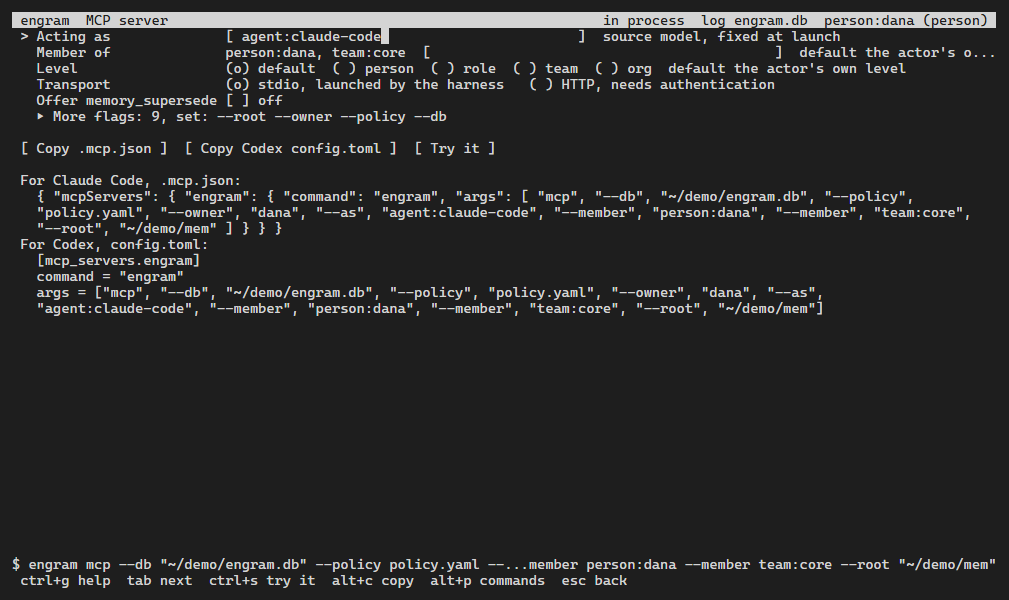
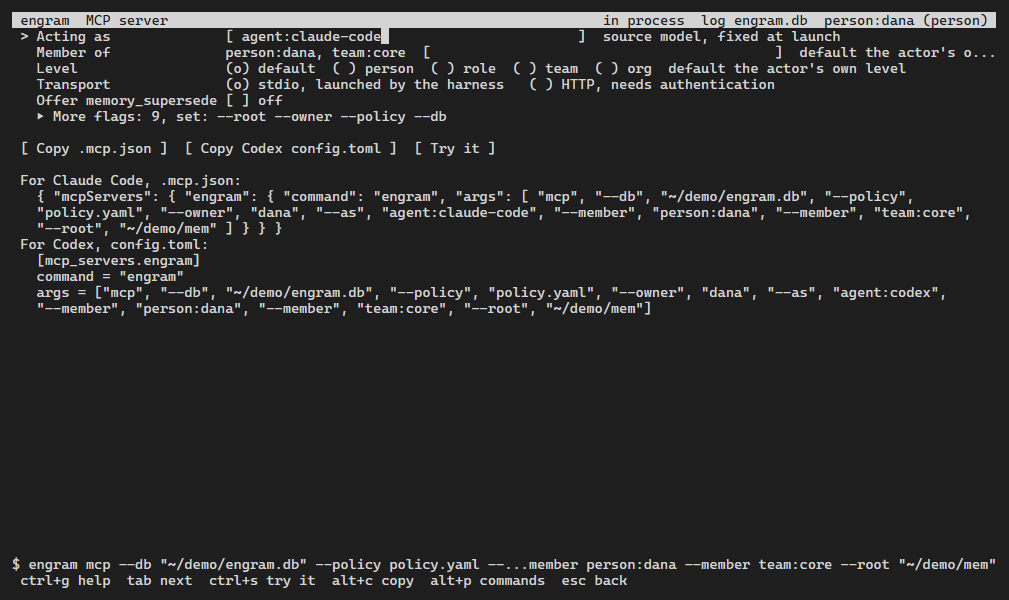
E8.15 README review: Codex's snippet acts as agent:codex; explain's singular reach line; mcp and explain screens regenerated

Changed region(s): [[0.0307, 0.51, 0.8295, 0.54], [0.8295, 0.48, 0.9217, 0.51]]

diff --git a/packages/cli/src/tui/snippets.ts b/packages/cli/src/tui/snippets.ts
@@ -172,9 +172,22 @@ export const mcpJson = (launch: Launch, argv: readonly string[]) => ({
   mcpServers: { engram: { command: launch.command, args: [...launch.prefix, ...argv] } },
 });
 
-/** Codex's `[mcp_servers.engram]` table, in the fixture's shape (TOML strings as JSON writes them). */
+/** The agent the MCP screen acts as by default, which is Claude Code's; Codex's snippet names Codex's instead. */
+export const CLAUDE_CODE_AGENT = "agent:claude-code";
+export const CODEX_AGENT = "agent:codex";
+
+/**
+ * `argv` as Codex runs it: `--as agent:claude-code`, the MCP screen's default,
+ * becomes `--as agent:codex`, so a Codex session is never recorded as Claude
+ * Code (README review, 2026-11-26). Any other actor is kept as given.
+ */
+export function codexArgv(argv: readonly string[]): string[] {
+  return argv.map((a, i) => (a === CLAUDE_CODE_AGENT && argv[i - 1] === "--as" ? CODEX_AGENT : a));
+}
+
+/** Codex's `[mcp_servers.engram]` table, in the fixture's shape (TOML strings as JSON writes them), acting as Codex's agent when the screen's default is Claude Code's. */
 export function codexToml(launch: Launch, argv: readonly string[]): string {
-  const args = [...launch.prefix, ...argv].map((a) => JSON.stringify(a)).join(", ");
+  const args = [...launch.prefix, ...codexArgv(argv)].map((a) => JSON.stringify(a)).join(", ");
   return `[mcp_servers.engram]\ncommand = ${JSON.stringify(launch.command)}\nargs = [${args}]\n`;
 }
 

diff --git a/docs/design/screens/mcp.html b/docs/design/screens/mcp.html
@@ -24,8 +24,8 @@ font-variant-ligatures:none}
  For Codex, config.toml:                                                                                                
    [mcp_servers.engram]                                                                                                 
    command = "engram"                                                                                                   
-   args = ["mcp", "--db", "~/demo/engram.db", "--policy", "policy.yaml", "--owner", "dana", "--as",                     
-   "agent:claude-code", "--member", "person:dana", "--member", "team:core", "--root", "~/demo/mem"]                     
+   args = ["mcp", "--db", "~/demo/engram.db", "--policy", "policy.yaml", "--owner", "dana", "--as", "agent:codex",      
+   "--member", "person:dana", "--member", "team:core", "--root", "~/demo/mem"]                                          
                                                                                                                         
                                                                                                                         
                                                                                                                         

diff --git a/packages/cli/src/tui/screens/read.ts b/packages/cli/src/tui/screens/read.ts
@@ -373,6 +373,12 @@ export interface ReadKnown {
   contents?: ReadonlyMap<string, string>;
 }
 
+/** The explain view's line for the projected items out of the reader's reach, in the number it counts (README review, 2026-11-26). */
+export const reachLine = (n: number): string =>
+  n === 1
+    ? " 1 projected item outside the reader's reach was not a candidate."
+    : ` ${n} projected items outside the reader's reach were not candidates.`;
+
 export class ExplainScreen extends RichScreen {
   readonly kind = "explain" as const;
   private readonly known: ReadKnown;
@@ -509,9 +515,7 @@ export class ExplainScreen extends RichScreen {
       const c = v.counts;
       out.push(` Returned ${c.returned} of ${c.candidates} candidates; ${c.filtered} filtered.`);
       for (const cat of v.categories) out.push(`   ${cat.count} ${cat.label}`);
-      out.push(
-        ` ${c.out_of_reach} projected ${c.out_of_reach === 1 ? "item" : "items"} outside the reader's reach ${c.out_of_reach === 1 ? "was" : "were"} not candidates.`,
-      );
+      out.push(reachLine(c.out_of_reach));
     }
     out.push("", ` rank  ${fit("item", 38)}${fit("score", 9)}admitted by`);
     this.selected = Math.max(0, Math.min(this.selected, v.rows.length - 1));

diff --git a/packages/cli/test/tui/flows.test.ts b/packages/cli/test/tui/flows.test.ts
@@ -13,7 +13,7 @@ import { command } from "../../src/registry.ts";
 import type { EventsScreen, PolicyScreen } from "../../src/tui/screens/events.ts";
 import type { GrantsScreen } from "../../src/tui/screens/grants.ts";
 import type { ItemScreen } from "../../src/tui/screens/item.ts";
-import type { ReadScreen } from "../../src/tui/screens/read.ts";
+import { type ReadScreen, reachLine } from "../../src/tui/screens/read.ts";
 import { outputLines } from "../../src/tui/screens/rich.ts";
 import type { PromoteScreen, WriteScreen } from "../../src/tui/screens/write.ts";
 import { ASCII } from "../../src/tui/theme.ts";
@@ -124,6 +124,11 @@ describe("Read and explain (8.5, 8.6)", () => {
     expect(rows.at(-3)).toContain("This read also changes the log, as asked");
     expect(rows.at(-2)).not.toContain("as asked");
     await h.quit();
+  });
+
+  it("says one projected item out of reach in the singular", () => {
+    expect(reachLine(1)).toBe(" 1 projected item outside the reader's reach was not a candidate.");
+    expect(reachLine(0)).toBe(" 0 projected items outside the reader's reach were not candidates.");
   });
 
   it("e explains the read; enter on a row opens the item page", async () => {

diff --git a/docs/design/screens/explain.html b/docs/design/screens/explain.html
@@ -17,7 +17,7 @@ font-variant-ligatures:none}
    0 not active                                                                                                         
    0 past their ttl                                                                                                     
    0 by a grant's class or expiry                                                                                       
- 1 projected item outside the reader's reach was not candidates.                                                        
+ 1 projected item outside the reader's reach was not a candidate.                                                       
                                                                                                                         
  rank  item                                  score    admitted by                                                       
 <span style="color:#1e1e1e;background:#d4d4d4"> &gt; 1   01940000-0000-7000-8000-000000000009  1.7219   fixture.inspector/read/person                                     </span>

diff --git a/packages/cli/test/tui/snippets.test.ts b/packages/cli/test/tui/snippets.test.ts
@@ -165,6 +165,20 @@ describe("the snippets' shape (8.14, 8.15)", () => {
     expect(codexToml(launch, args)).toBe(table);
   });
 
+  it("Codex's table acts as Codex's agent where the screen's default is Claude Code's, and keeps any other actor", () => {
+    const launch = { command: "engram", prefix: [], note: undefined };
+    const args = ["mcp", "--as", "agent:claude-code", "--member", "person:dana"];
+    expect(codexToml(launch, args)).toBe(
+      '[mcp_servers.engram]
+command = "engram"
+args = ["mcp", "--as", "agent:codex", "--member", "person:dana"]
+',
+    );
+    // Claude Code's own snippet keeps it.
+    expect(mcpJson(launch, args).mcpServers.engram.args).toEqual(args);
+    expect(codexToml(launch, ["mcp", "--as", "agent:other"])).toContain('"--as", "agent:other"');
+  });
+
   it("the absolute form puts main.ts first in args, escaped as JSON requires", () => {
     const launch = { command: "C:\\Program Files\\nodejs\\node.exe", prefix: [MAIN], note: "x" };
     const entry = hookSettings(launch, fixtureArgs).hooks.PreToolUse[0]?.hooks[0];

diff --git a/docs/design/tui.md b/docs/design/tui.md
@@ -1232,7 +1232,7 @@ The start line is the shape `serve.ts` prints since card E8.12 merged: it ends w
 
 ### 8.14 MCP server
 
-The MCP server is normally launched by the harness, not by a person, so this screen is setup: it builds the `engram mcp` command for the actor and memberships chosen, shows the configuration for Claude Code's `.mcp.json` and Codex's `config.toml` in exactly the shape of the repository's tested fixtures (`fixtures/harness/claude-code/.mcp.json`, `fixtures/harness/codex/config.toml`: `command` and an `args` list), and copies each with `c`. "Offer memory_supersede" is `--supersede` (card L6). The HTTP transport takes the same three authentication answers as Serve (card E8.12).
+The MCP server is normally launched by the harness, not by a person, so this screen is setup: it builds the `engram mcp` command for the actor and memberships chosen, shows the configuration for Claude Code's `.mcp.json` and Codex's `config.toml` in exactly the shape of the repository's tested fixtures (`fixtures/harness/claude-code/.mcp.json`, `fixtures/harness/codex/config.toml`: `command` and an `args` list), and copies each with `c`. Codex's table acts as `agent:codex` where the screen's default, Claude Code's `agent:claude-code`, stands; any other actor is kept. "Offer memory_supersede" is `--supersede` (card L6). The HTTP transport takes the same three authentication answers as Serve (card E8.12).
 
 The command in the snippet must run where the harness runs it. `engram` is a private workspace binary, not on the PATH unless the person installed it, and a hook or server command that cannot start fails open for the hook (8.15) and silently for MCP. So the TUI looks `engram` up on the PATH (with `PATHEXT` on Windows) and uses it only when it resolves to this same CLI and, on Windows, to an `.exe`: both Claude Code's command-and-args form and Node's `spawn` without a shell start a real executable only, so an `engram.cmd` or `engram.ps1` shim (what `npm` and `pnpm` install) would not start and the hook would fail open. Otherwise it writes the absolute command it is itself running (`process.execPath`, `node.exe` on Windows, then the absolute path of `packages/cli/src/main.ts` as the first argument) and says why above the snippet: "engram is not on your PATH", or "engram on your PATH is a .cmd shim, which this form cannot start on Windows".
 

diff --git a/docs/log/2026-11-26-e8-15-change-readme-review.md b/docs/log/2026-11-26-e8-15-change-readme-review.md
@@ -1,0 +1,23 @@
+---
+date: 2026-11-26
+author: claude-agent
+type: change
+card: E8.15
+chapter: implementation
+pillar: plane
+hypothesis: none
+evidence:
+  - packages/cli/test/tui/snippets.test.ts
+  - packages/cli/test/tui/flows.test.ts
+  - docs/design/screens/mcp.ansi
+  - docs/design/screens/explain.ansi
+supersedes: none
+---
+
+**What.** Two README review items. The MCP screen's Codex snippet named `--as agent:claude-code`; it now names `agent:codex` where that default stands. The explain screen said "1 projected item ... was not candidates"; it now says "was not a candidate".
+
+**Why.** A Codex session must not be recorded as Claude Code. The harness fixtures both act as `person:dana`, so they name no agent to copy.
+
+**Result.** `codexArgv` and `reachLine` are each pinned by a test. The four MCP frames at 120x40 changed in the Codex table alone. `make tui-screens` changed `mcp` and `explain` only, by those two strings. Core's read reason (`packages/core/src/plane/read-reason.ts`) still writes "1 projected item ... were not candidates". That was left alone and reported, since changing it could move registered bytes.
+
+**Consequence.** The core wording is a separate card, after the H1 runs.
